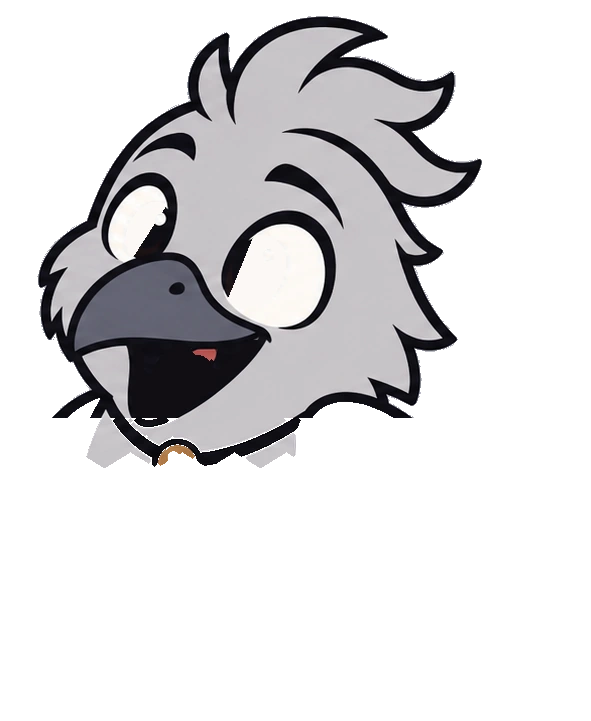
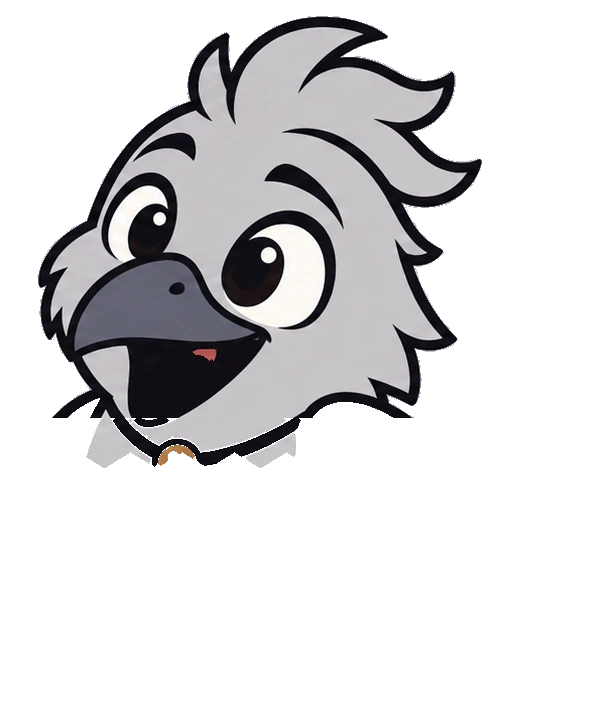
Corvos: sem película branca ao mexer (pupila do Muninn fica na cabeça, forro interno sob as peças, asa presa à respiração do corpo)

Changed region(s): [[0.3655, 0.3051, 0.4873, 0.4272], [0.2132, 0.2746, 0.2741, 0.3662]]

diff --git a/windows/src/bifrost/rig-raster.ts b/windows/src/bifrost/rig-raster.ts
@@ -13,6 +13,8 @@ type Meta = { w: number; h: number; pivot: readonly number[]; eyes: readonly (re
 const META = ART_META as unknown as Record<Who, Meta>;
 
 const URLS: Record<string, string> = {
+  "huginn-under": new URL("./art/huginn-under.webp", import.meta.url).href,
+  "muninn-under": new URL("./art/muninn-under.webp", import.meta.url).href,
   "huginn-base": new URL("./art/huginn-base.webp", import.meta.url).href,
   "huginn-head": new URL("./art/huginn-head.webp", import.meta.url).href,
   "huginn-pupils": new URL("./art/huginn-pupils.webp", import.meta.url).href,
@@ -78,6 +80,7 @@ export function drawRaster(x: C2, who: Who, pose: RigPose, s: number, alpha = 1)
   // Base: corpo e pés plantados; a respiração estica o peito um tiquinho a partir dos pés.
   g.save(); g.translate(0, m.h); g.scale(1, 1 + pose.breath * 0.006); g.translate(0, -m.h);
   if (pose.lift) g.translate(0, -pose.lift * k);
+  g.drawImage(im("under"), 0, 0); // forro de dentro (tapa frestas entre peças)
   g.drawImage(im("base"), 0, 0);
   g.restore();
   // Cabeça + topete: inclina no pescoço (a gola serrilhada cobre a junta); ao falar, o Huginn balança.
@@ -97,14 +100,14 @@ export function drawRaster(x: C2, who: Who, pose: RigPose, s: number, alpha = 1)
   const e = sc(`${who}-eyes`, m.w, m.h), ge = e.getContext("2d")!;
   ge.globalCompositeOperation = "source-over"; ge.clearRect(0, 0, m.w, m.h);
   const small = Math.min(...m.eyes.map((q) => q[2]));
-  ge.drawImage(im("pupils"), pose.px * small * 0.3, pose.py * small * 0.25);
+  // Muninn não desliza a pupila: a pupila dela encosta no contorno do olho e qualquer
+  // deslocamento abria uma fresta branca (esclera) ao lado do olho esquerdo.
+  const gaze = who === "muninn" ? 0 : 1;
+  ge.drawImage(im("pupils"), pose.px * small * 0.3 * gaze, pose.py * small * 0.25 * gaze);
   const lid = Math.max(0, Math.min(1, pose.lid));
   if (who === "muninn") {
-    // Muninn: pupilas recortadas pelo olho; a pálpebra vai numa camada própria, recortada
-    // pelo olho um tico maior (sem franja branca), com UM traço de cílio curvo.
-    ge.globalCompositeOperation = "destination-in"; ge.drawImage(im("eyes"), 0, 0);
-    ge.globalCompositeOperation = "source-over";
-    g.drawImage(e, 0, 0);
+    // Muninn: olhos e pupilas são os pixels originais da própria cabeça (sem camada de
+    // pupila: nada a desalinhar). A pálpebra vem por cima, recortada pela máscara do olho.
     if (lid > 0.01 && m.eyeFit) {
       // Piscada de desenho: a pálpebra (cor da pena em volta) cobre o olho INTEIRO, inclusive
       // o contorno de fora (máscara recortada do desenho, +3 px). A borda de baixo é um arco
@@ -165,7 +168,10 @@ export function drawRaster(x: C2, who: Who, pose: RigPose, s: number, alpha = 1)
   if (m.shoulder) {
     const [sx, sy] = m.shoulder;
     const wa = -Math.max(-0.1, Math.min(RASTER_LIMITS.wing, pose.wingR * 0.25));
-    g.save(); g.translate(0, rise * 0.5); g.translate(sx, sy); g.rotate(wa); g.translate(-sx, -sy); g.drawImage(im("wing"), 0, 0); g.restore();
+    // a asa vai presa ao corpo (mesma respiração da base): o cordão e o ombro não se separam
+    g.save(); g.translate(0, m.h); g.scale(1, 1 + pose.breath * 0.006); g.translate(0, -m.h);
+    if (pose.lift) g.translate(0, -pose.lift * k);
+    g.translate(sx, sy); g.rotate(wa); g.translate(-sx, -sy); g.drawImage(im("wing"), 0, 0); g.restore();
   }
 
   // Reduz em meias etapas até perto do tamanho final (nítido em ícones pequenos).

diff --git a/windows/src/bifrost/art/meta.ts b/windows/src/bifrost/art/meta.ts
@@ -1,2 +1,2 @@
 // GERADO por tools/cut-ravens.py (camadas recriadas da referência).
-export const ART_META = {"huginn": {"w": 588, "h": 763, "pivot": [300, 448], "eyes": [[348.3, 281.5, 55.0, 47.5], [505.1, 300.7, 24.0, 39.0]], "brow": [501.0443275732532, 228.82494365138993], "beakRoot": null, "shoulder": null, "lid": [48, 48, 56], "ink": [16, 15, 21], "sticker": [177, 179, 187], "stickerW": 7.0, "eyeFit": [[348.1, 280.7, 55.2, 62.6, 1.677, 48, 47, 55], [504.9, 300.3, 31.5, 46.6, 3.051, 48, 47, 55]], "layers": ["base", "head", "pupils", "eyes", "brow"]}, "muninn": {"w": 591, "h": 721, "pivot": [210, 418], "eyes": [[134.8, 220.9, 28.5, 37.5], [278.9, 276.8, 48.0, 50.5]], "brow": null, "beakRoot": [245.0, 344.0], "shoulder": [325.0, 428.0], "lid": [199, 195, 199], "ink": [15, 14, 19], "sticker": [177, 178, 187], "stickerW": 7.0, "eyeFit": [[135.3, 220.3, 28.1, 49.0, 0.512, 199, 195, 199], [280.2, 274.0, 52.5, 57.4, 0.412, 200, 196, 200]], "layers": ["base", "head", "pupils", "eyes", "beakLo", "wing", "lidmask"]}} as const;
+export const ART_META = {"huginn": {"w": 588, "h": 763, "pivot": [300, 448], "eyes": [[348.3, 281.5, 55.0, 47.5], [505.1, 300.7, 24.0, 39.0]], "brow": [501.0443275732532, 228.82494365138993], "beakRoot": null, "shoulder": null, "lid": [48, 48, 56], "ink": [16, 15, 21], "sticker": [177, 179, 187], "stickerW": 7.0, "eyeFit": [[348.1, 280.7, 55.2, 62.6, 1.677, 48, 47, 55], [504.9, 300.3, 31.5, 46.6, 3.051, 48, 47, 55]], "layers": ["under", "base", "head", "pupils", "eyes", "brow"]}, "muninn": {"w": 591, "h": 721, "pivot": [210, 418], "eyes": [[134.8, 220.9, 28.5, 37.5], [278.9, 276.8, 48.0, 50.5]], "brow": null, "beakRoot": [245.0, 344.0], "shoulder": [325.0, 428.0], "lid": [199, 195, 199], "ink": [15, 14, 19], "sticker": [177, 178, 187], "stickerW": 7.0, "eyeFit": [[135.3, 220.3, 28.1, 49.0, 0.512, 199, 195, 199], [280.2, 274.0, 52.5, 57.4, 0.412, 200, 196, 200]], "layers": ["under", "base", "head", "pupils", "eyes", "beakLo", "wing", "lidmask"]}} as const;

diff --git a/windows/tools/cut-ravens.py b/windows/tools/cut-ravens.py
@@ -95,7 +95,10 @@ for who, cfg in CFG.items():
     headM &= ~(wingPix & (yy >= cut - 30))  # asas não vão com a cabeça
     layers = {}
     Hc = C.copy()
-    Hc[pupD] = sclera  # pupilas em camada própria
+    if who != "muninn":
+        Hc[pupD] = sclera  # pupilas em camada própria
+    # (Muninn: a pupila fica na própria cabeça — ela encosta no contorno e a máscara convexa
+    #  do branco cortava a pupila numa reta, que virava uma fresta clara ao mexer a cabeça.)
     # sobrancelha (Huginn): camada própria; por baixo, pena
     browInfo = None
     if cfg.get("brow"):
@@ -179,10 +182,20 @@ for who, cfg in CFG.items():
         shoulder = [float(xsTop.min() + 18), float(top + 26)]
     headA = A * headM
     if "beakLo" in layers: headA = np.maximum(headA, A * layers["beakLo"][1] * 0)  # (o bico vem por cima)
+    # forro: corpo+cabeça em repouso (sem a asa), só por DENTRO da silhueta (10 px para
+    # dentro) e só da faixa do pescoço para baixo. Vai por baixo de tudo: qualquer fresta
+    # entre peças mostra o próprio desenho, nunca o adesivo nem o fundo.
+    hA2 = headA
+    compA = hA2 + bA * (1 - hA2)
+    compC = (Hc * hA2[..., None] + Bc * (bA * (1 - hA2))[..., None]) / np.maximum(compA, 1e-3)[..., None]
+    uM = nd.binary_erosion(compA > 0.5, iterations=10) & (yy >= cut - 120)
+    uA = cv2.GaussianBlur(uM.astype(np.float32), (0, 0), 1.0) * uM
+    save(f"{who}-under", bleed(compC, uA), uA)
     save(f"{who}-base", bleed(Bc, bA), bA)
     save(f"{who}-head", bleed(Hc, headA), headA)
     Pc = np.zeros_like(C); Pc[:] = ink
-    save(f"{who}-pupils", Pc, pupA)
+    # pupila = os pixels originais (com o brilho), opaca na própria máscara: sem fresta
+    save(f"{who}-pupils", Pc, pupA if who != "muninn" else np.zeros_like(pupA))
     save(f"{who}-eyes", np.full_like(C, 255), eyeAll.astype(np.float32))
     if who == "muninn":
         # máscara da pálpebra: o olho com o contorno de fora inteiro (+3 px), por olho
@@ -210,6 +223,6 @@ for who, cfg in CFG.items():
         ein.append([round(float(xs.mean()), 1), round(float(ys.mean()), 1), float((xs.max() - xs.min()) / 2), float((ys.max() - ys.min()) / 2)])
     meta[who] = {"w": W, "h": H, "pivot": list(cfg["pivot"]), "eyes": ein, "brow": browInfo, "beakRoot": beakRoot, "shoulder": shoulder,
                  "lid": [int(v) for v in P["body"]], "ink": list(P["ink"]), "sticker": list(P["sticker"]), "stickerW": max(7.0, round(sw, 1)),
-                 "eyeFit": fits, "layers": ["base", "head", "pupils", "eyes"] + list(layers)}
+                 "eyeFit": fits, "layers": ["under", "base", "head", "pupils", "eyes"] + list(layers)}
     print(who, meta[who]["layers"], "adesivo", max(7.0, round(sw, 1)), "ombro", shoulder)
 open(os.path.join(OUT, "meta.ts"), "w").write("// GERADO por tools/cut-ravens.py (camadas recriadas da referência).\nexport const ART_META = " + json.dumps(meta) + " as const;\n")
